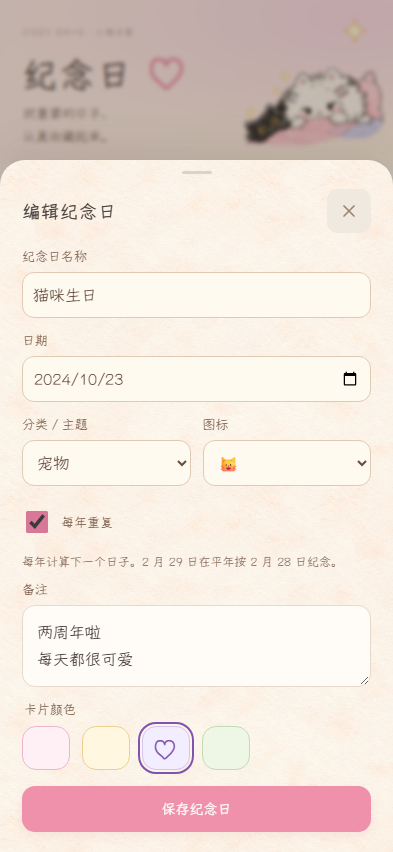
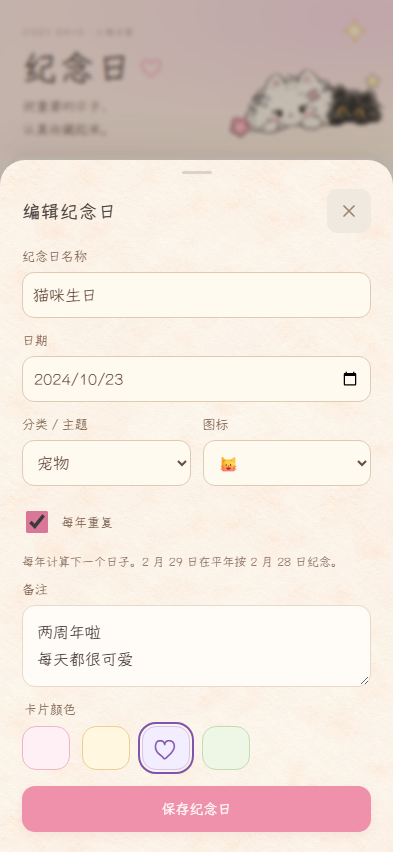
docs(integration): record M3 anniversary asset evidence

diff --git a/docs/integration/m3-anniversary-assets.md b/docs/integration/m3-anniversary-assets.md
@@ -1,0 +1,37 @@
+# M3 Anniversary assets
+
+## Scope and result
+
+M3 wires the six reusable items in `public/assets/cozy_days/anniversary/manifest.json` into the anniversary UI. The same transparent cat artwork fills the hero and empty state; the other five assets supply the header sparkle/flower, title and card icon accents, and card flower/tape decoration. Card title, countdown, edit and delete actions stay unobstructed. No reference-sheet crop is used by the app.
+
+The user authorized reuse of the already-reviewed project assets for this task. This records task authorization only; it does not assert a third-party license or independent copyright clearance. The provided anniversary reference is `public/review/anniversary-assets/reference.png` (852×1847). The nine `needs-redraw` entries remain unavailable and labeled as crops only in the review gallery.
+
+## File and pixel audit
+
+Browser-decoded dimensions, alpha coverage, and SHA-256 were measured from the actual files. PNG alpha coverage counts pixels with alpha exactly zero; all three PNGs also contain fully opaque pixels. SVG values are from browser rasterization at 128×128. The gallery was viewed over both light and dark checkerboards; no opaque canvas/background appears around the reusable artwork.
+
+| Manifest item | Actual source | Dimensions | Transparent pixels | SHA-256 |
+|---|---|---:|---:|---|
[6 lines of base64/hex data omitted]
+
+Every canonical resource hash agrees with `src/assets/ready-catalog.json`. The browser audit on this Windows checkout also logged hashes of the served CRLF text for the SVGs (heart `d85097dd…`, star `c725117c…`, sparkle `50e8ae3b…`); normalizing CRLF to LF reproduces the catalog and git-blob hashes above exactly. These are line-ending differences, not artwork drift. The manifest records canonical git-blob hashes so they remain stable in a Linux deployment.
+
+## Visual and interaction evidence
+
+Playwright rendered real app screenshots at 360×740, 393×852 and 430×932. Each screenshot set has an empty-state hero and a fully scrolled card state. `card-360.png` was reviewed against the reference: warm paper/pink palette and hand-drawn collage remain, the reusable cats occupy the hero, and the unavailable illustrated header scene remains an acknowledged visual gap. The full card is visible, its countdown is readable, and its edit control opens the editor. A geometry assertion checks that the tape does not overlap the countdown and the flower does not overlap edit/delete hit areas.
+
+- `artifacts/integration/m3/hero-empty-{360,393,430}.png`
+- `artifacts/integration/m3/card-{360,393,430}.png`
+- `artifacts/integration/m3/assets-light.png` and `assets-dark.png` show the six actual assets and nine explicitly marked redraw gaps on both checkerboard backgrounds.
+- Reference: `public/review/anniversary-assets/reference.png`.
+
+The gallery reports exactly 6 ready items and 9 `needs-redraw` items. Birthday cake, graduation art, photo frames, cat paws, bow, flowers, header scene, and hand-drawn lines remain missing; the app continues to use its bundled fallback and functional card UI.
+
+## Validation record
+
+Source was committed before the final validation matrix; exact source SHA, serial command exits, test counts, and log hashes are recorded in `m3-results.json`. Validation order: `npm ci`, `npm run build`, `npm run build:pages`, anniversary specialist suite (including the new asset tests), existing swipe/audit/font regression set, and `npm run test:pages`. The separate full E2E suite is deferred to M5 per the integration plan. Playwright output screenshots and logs are local ignored evidence under `artifacts/integration/m3/`.

diff --git a/docs/integration/status.md b/docs/integration/status.md
@@ -20,7 +20,7 @@
 | M0 | Inventory, protection, baseline, task/asset map | Complete; both builds, 59 E2E and 4 Pages tests passed |
 | M1 | Anniversary functionality | Complete; source `d4adc9d1e7f3bd85f402159b857455b7e82f02b3`; 35 specialist + 17 existing regressions + 4 Pages tests and both builds passed; checkpoint `checkpoint/anniversary-functional-20261023T144942Z` |
 | M2 | Period functionality and failed-save behavior | Functionality passed on `88fa1b7f313410cb16fcf124015452314889ea44`; 45 period, 35 anniversary, 17 legacy regression, 4 Pages, both builds and 1 recovery-evidence test all exited 0. Coordinator checkpoint push/read-back pending. No Android device or reference-image visual acceptance. |
-| M3 | Anniversary assets and visual comparison | Not started; copyright/asset review required |
+| M3 | Anniversary assets and visual comparison | Complete locally on `58447f89bf759eee668cbee34849bf2b1873d12e`; coordinator checkpoint/tag and overall acceptance pending |
 | M4 | Period assets and responsive review | Not started; copyright/asset review required |
 | M5 | Cross-feature audit and regression | Not started; only after M1–M4 |
 | M6 | Release candidate and protected PR merge | Not started; all goal gates and current checks required |
@@ -52,3 +52,5 @@
 - M2 detailed command, failure/recovery history, log hashes, and evidence provenance are recorded in `m2.md` and `m2-results.json`. The test transcript and raw generated media remain in the source worktree artifacts at `D:\cozy-days-m2-period-20261023T150338Z\artifacts\integration\m2\`; no tests were rerun by the evidence writer.
 
 M2 checkpoint accepted by coordinator: remote `checkpoint/period-functional-20261023T2337Z` and integration branch read back at `9814fe754b8a182b08c8e80b7e8c7c0d34260615`; source under tests is `88fa1b7f313410cb16fcf124015452314889ea44`. The evidence-only commit changes no source/tests. M3 begins from reviewed PR #7 merge `11a3e4812cdf1380ad61d9b601276d8da1fd5a8b`. Cloudflare production gate is satisfied by the user's explicit 2026-10-24 confirmation that main automatic production deployment is disabled, not by an authenticated dashboard/API read.
+
+M3 local completion: source/UI commit `48d1bf81e9b61757323f10de22a21245417184c4`; canonical asset-hash and asset-test geometry correction `58447f89bf759eee668cbee34849bf2b1873d12e`. On the first SHA, the serial final matrix passed: `npm ci`, both builds, 39 anniversary specialist tests, 17 swipe/audit/font regressions, and 4 Pages tests. On the second SHA, both builds and the four new asset-only tests passed. The new test confirms actual browser dimensions/alpha/hash, light/dark gallery display, full card bounds at 360/393/430, no tape/count or flower/action overlap, and working edit/delete controls. Full command records, log hashes, screenshot hashes, and the failed preflight note are in `m3-results.json`; the review and asset-gap detail is in `m3-anniversary-assets.md`. The six authorized project assets are integrated, with 9 needs-redraw entries retained. The user authorized reusing existing reviewed project assets; no third-party license is claimed. M3 did not run the M5 full E2E suite, Android-device QA, or remote Preview review. No M3 checkpoint tag was created by the worktree writer.

diff --git a/docs/integration/asset-map.md b/docs/integration/asset-map.md
@@ -2,7 +2,7 @@
 
 This is an inventory for integration planning, not a quality, licensing, or copyright approval. Existing source manifests and files remain authoritative; re-check actual paths and provenance before each visual integration milestone.
 
-- Anniversary manifest availability: 6 assets available; 9 missing.
+- Anniversary manifest availability: 6 assets available; 9 missing. M3 integrated and visually audited the six available assets; see `m3-anniversary-assets.md`.
 - Period manifest availability: 8 assets available; 11 missing, including 3 icons.
 - Asset file paths exist in this worktree. Presence alone does not establish source rights, suitability, transparency quality, or visual acceptance. Copyright/permission is still under review.
 - Existing `src/assets/manifest.ts` maps the registered assets used by the app. `src/assets/ready-catalog.json` provides dimensions, alpha metadata, source names and hashes for catalogued assets.
@@ -14,9 +14,11 @@ This is an inventory for integration planning, not a quality, licensing, or copy
 | Shared symbols/decor | `sparkle_gold`, `heart_pink_outline`, `star_cream`, `washi_pink`, `flower_pink`, `cherries_simple`, `sprout` | Present; do not infer approval from manifest status |
 | Task cards | `task_book`, `task_stretch` | Present; existing todo UI remains frozen |
 | Stationery accents | `book_open_decor`, `books_upright`, `pencil_cup` | Present; intended use needs feature-level review |
-| Anniversary-specific slots | No M0 acceptance recorded | Map only after source, provenance, route and screenshots reviewed |
+| Anniversary header / empty state | `cats_empty_state` | M3: transparent project art reused in both slots; full header-scene illustration remains a documented gap |
+| Anniversary header / card accents | `sparkle_gold`, `flower_pink`, `heart_pink_outline`, `star_cream`, `washi_pink` | M3: integrated in hero and cards; light/dark checkerboard, real pixel alpha/hash, and three viewport screenshots recorded in `m3-anniversary-assets.md` |
 | Period-specific slots | No M0 acceptance recorded | Map only after source, provenance, route and screenshots reviewed |
 | Original edge illustrations | `original_plant`, `original_cheer`, `original_books_bubble`, `original_peeking_cat` | Cataloged; approval/provenance in evidence must be checked; visual quality remains to review |
-| Needs-redraw set | 9 of 11 reported | Do not present as production-ready assets; maintain fallback/placeholder mapping |
+| Anniversary needs-redraw set | 9 of 15 manifest items | M3: retain as missing; reference crops remain clearly labeled in the review gallery and are not app art |
+| Period needs-redraw set | 11 of 19 manifest items | Pending M4; do not present as production-ready assets |
 
 A later asset review should record each manifest item, actual path, dimensions, alpha behavior, hash, source/license evidence, background contrast, screen slot, and screenshot evidence. Never substitute a reference-sheet crop for a finished transparent asset or claim rights/quality without evidence.
